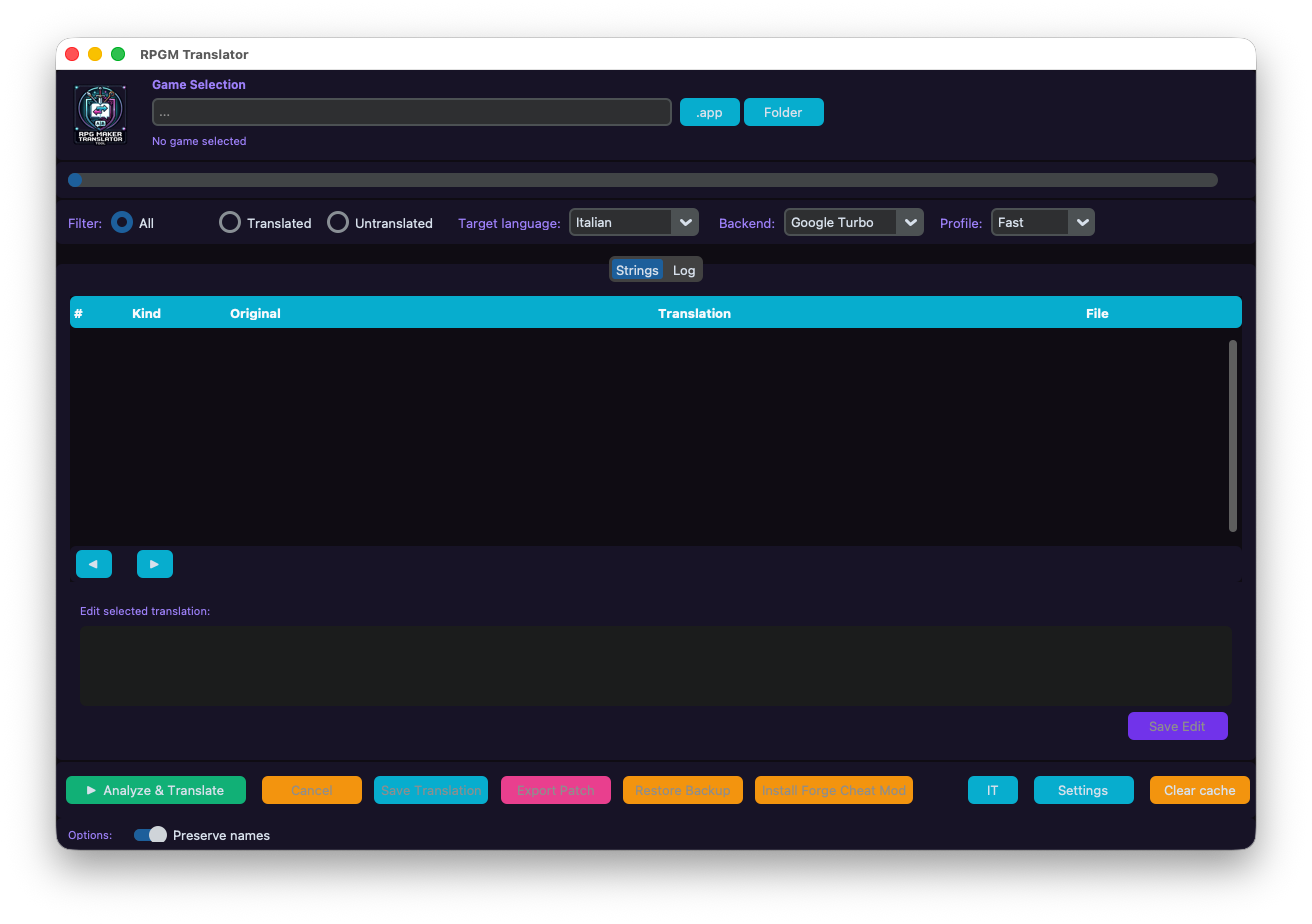
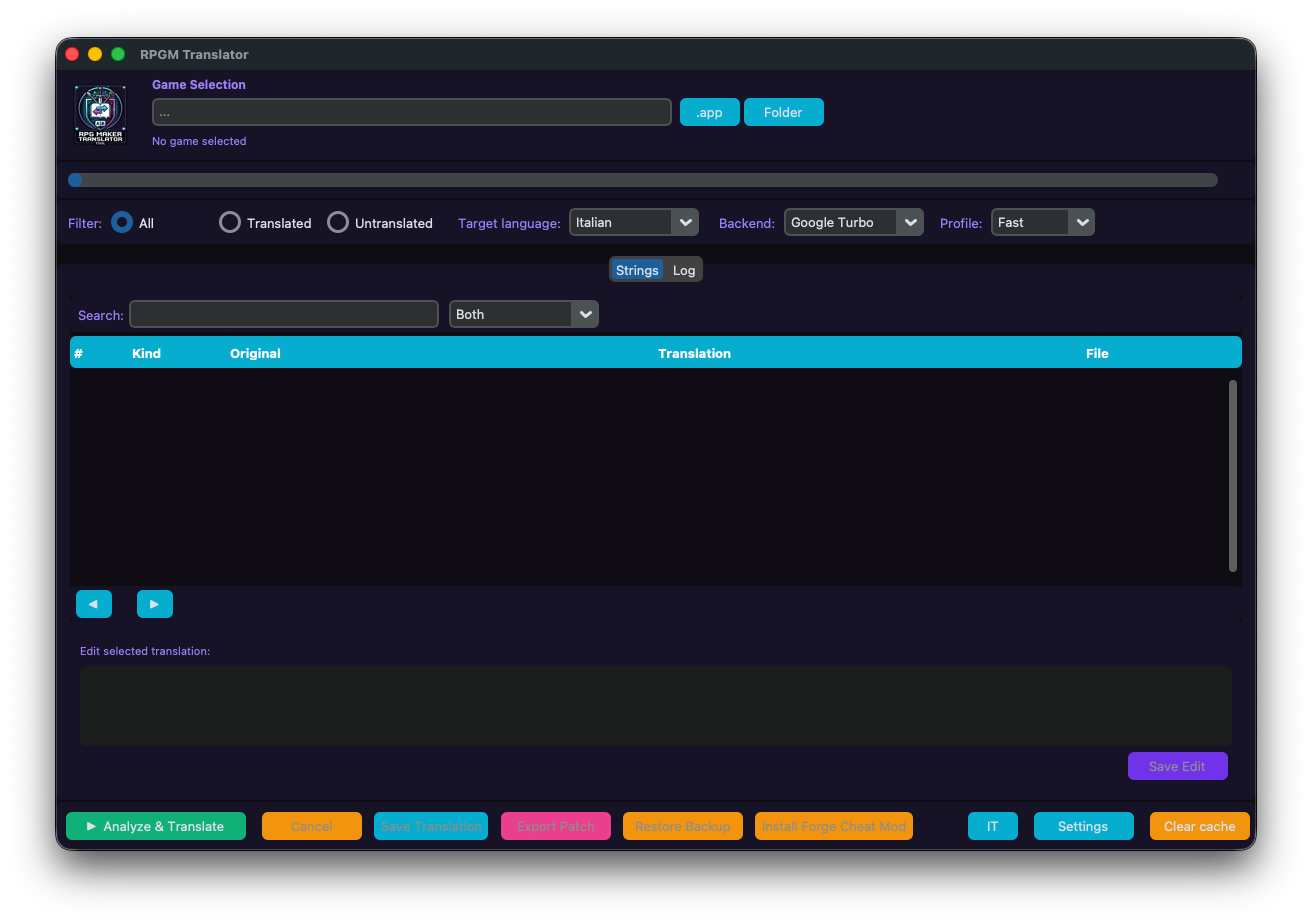
Update GUI screenshot and documentation
- Updated translator-gui.png with new GUI screenshot
- Updated README.md and README_IT.md with new features:
  - Improved cache reuse across backends
  - Clean GUI display with hidden script tokens
- Updated RELEASE_NOTES_v1.1.0.md with cache changes and upgrade notes

Changed region(s): [[0.0312, 0.0303, 0.9688, 0.9697]]

diff --git a/README.md b/README.md
@@ -30,6 +30,8 @@ Inspired by the logic of **Ren'Py Translator** and the interface style of **WTFo
 
 ## 🆕 Latest
 
+- **Improved cache reuse** — cache now works across different translation backends and after re-analyzing translated games.
+- **Clean GUI display** — script tokens are hidden in the translation table and editor for better readability.
 - **String search** — filter the table live by original text, translated text, or both.
 - **Restore Backup** — restore the game from the single original `data_bak_original` backup.
 - **Safe script dialogue translation** — preserves dialogue prefixes, placeholders, asset identifiers, and plugin command internals while translating visible text.

diff --git a/README_IT.md b/README_IT.md
@@ -30,6 +30,8 @@ Ispirato alla logica di **Ren'Py Translator** e allo stile dell'interfaccia di *
 
 ## 🆕 Novità
 
+- **Riutilizzo cache migliorato** — la cache ora funziona tra diversi backend di traduzione e dopo aver ri-analizzato giochi già tradotti.
+- **Visualizzazione GUI pulita** — i token script sono nascosti nella tabella di traduzione e nell'editor per una migliore leggibilità.
 - **Ricerca stringhe** — filtra la tabella in tempo reale per testo originale, traduzione o entrambi.
 - **Ripristina Backup** — ripristina il gioco dall'unico backup originale `data_bak_original`.
 - **Traduzione sicura dei dialoghi script** — conserva prefissi dei dialoghi, placeholder, identificatori degli asset e parti interne dei comandi plugin mentre traduce il testo visibile.